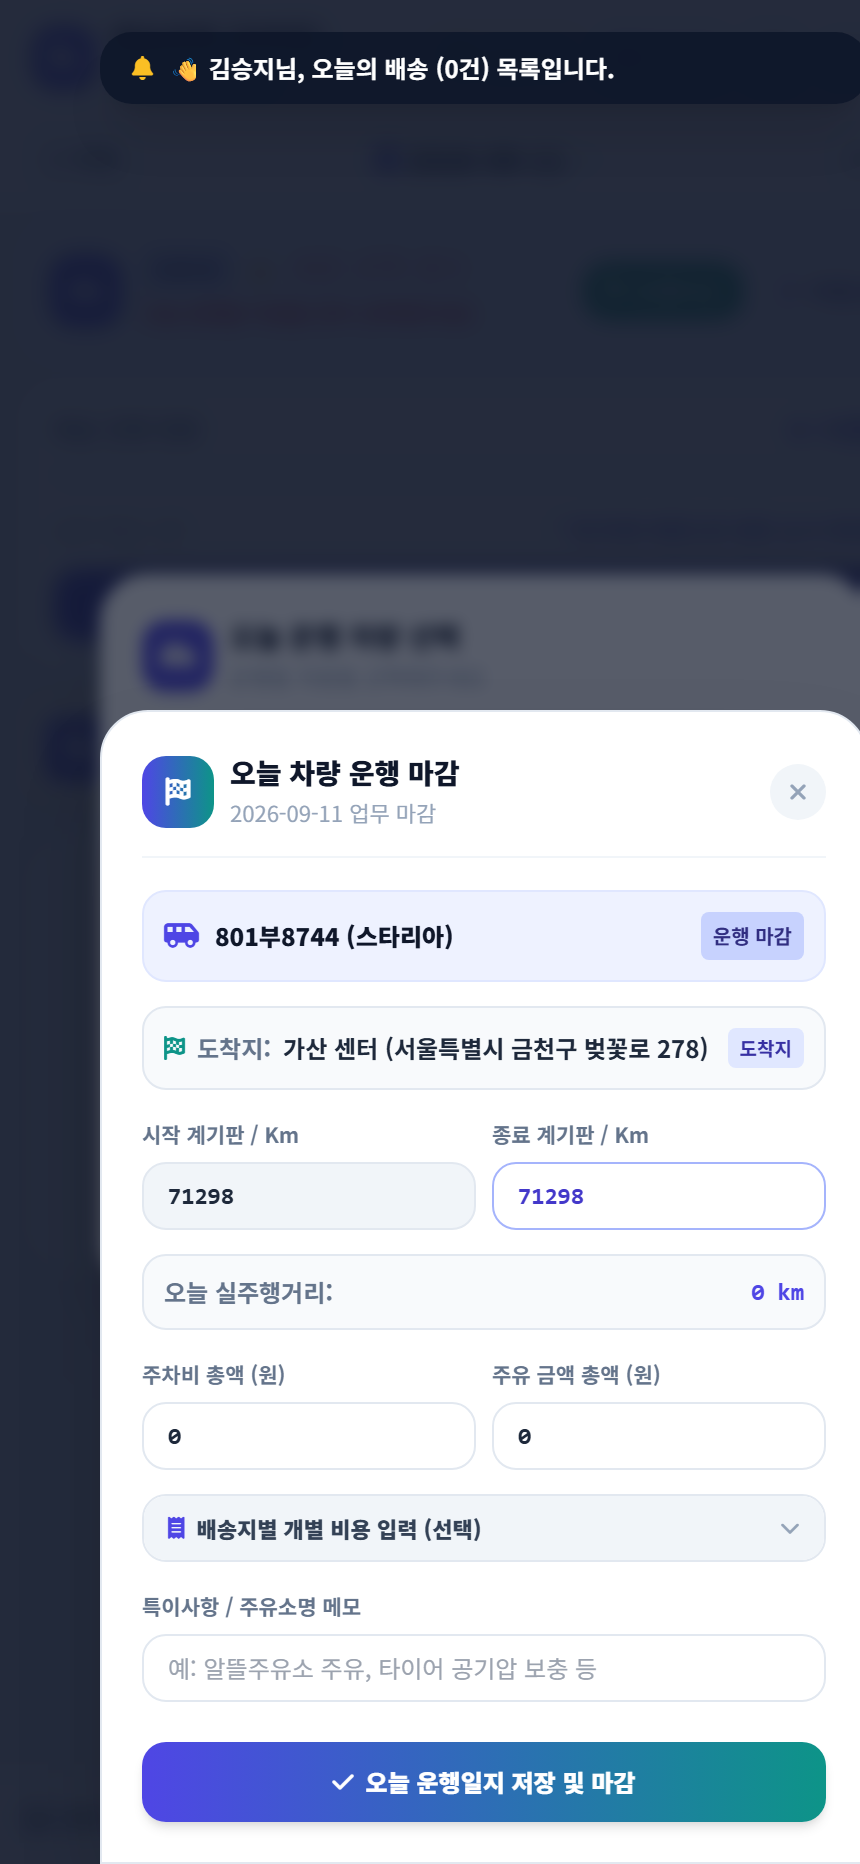
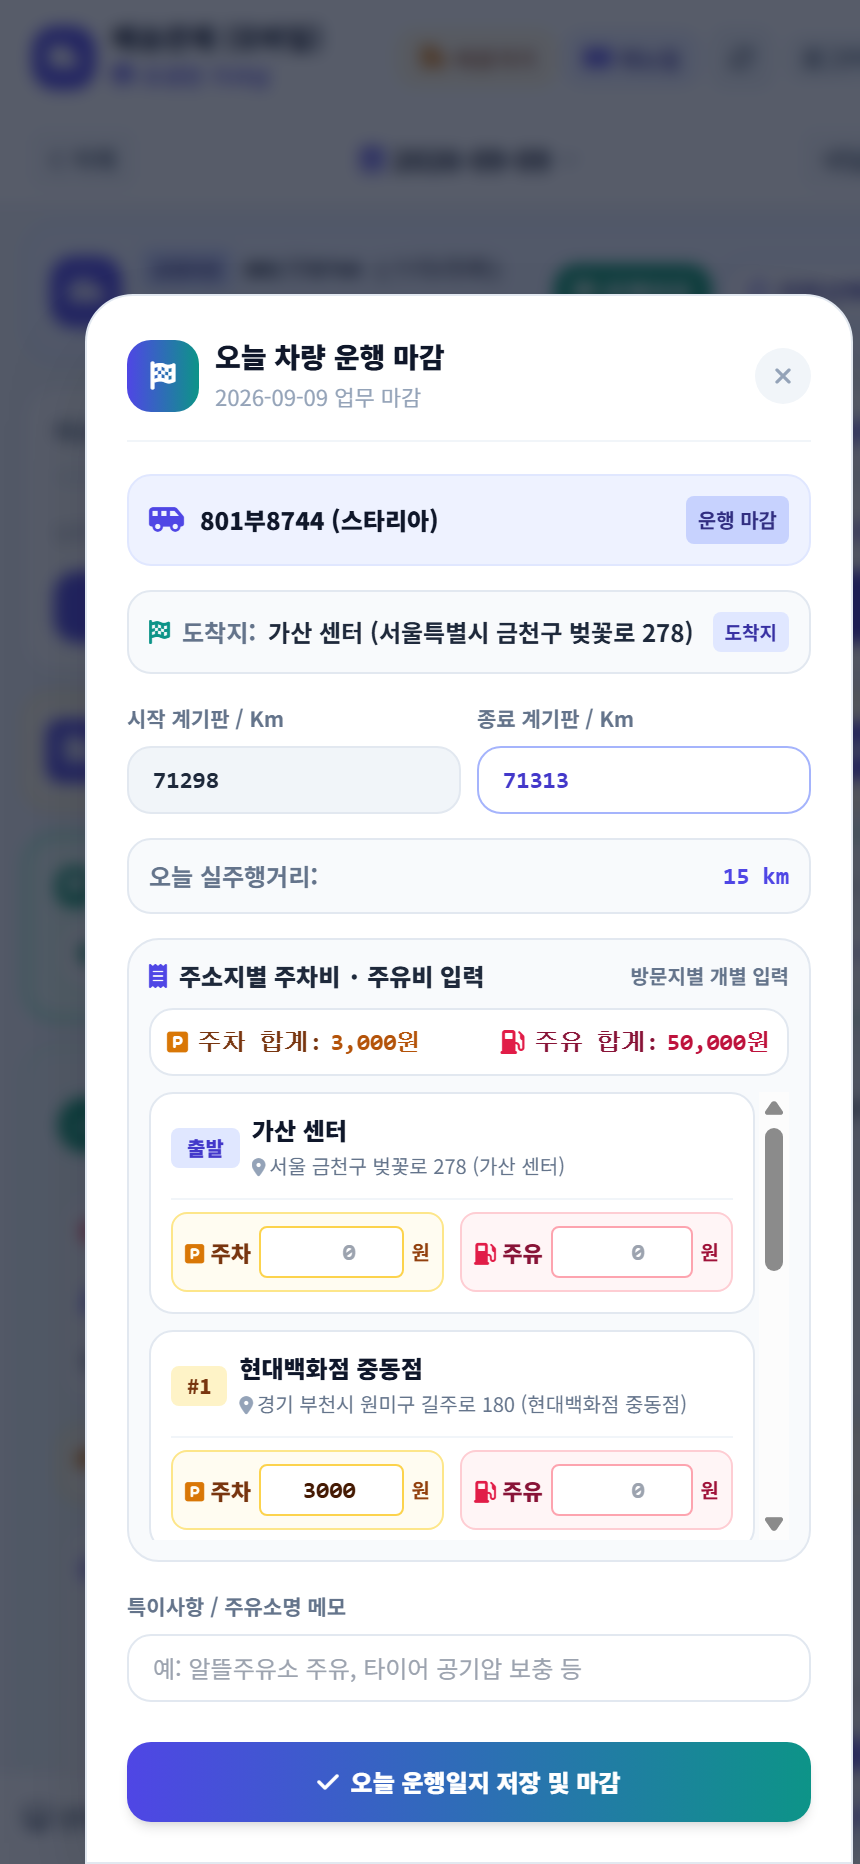
feat: 모바일 운행마감 주소지별 주차비·주유비 개별 입력 개편 및 매뉴얼 업데이트

diff --git a/mobile.html b/mobile.html
@@ -530,27 +530,34 @@
           <span id="closingMileageDiff" class="text-indigo-600 font-mono font-black">0 km</span>
         </div>
 
-        <!-- Costs -->
-        <div class="grid grid-cols-2 gap-2">
-          <div>
-            <label class="block text-[10.5px] font-bold text-slate-500 mb-1">주차비 총액 (원)</label>
-            <input type="number" id="closingParkingFee" value="0" step="500" class="w-full bg-white font-mono font-bold text-slate-800 px-3 py-2 rounded-xl border border-slate-200 text-xs focus:ring-2 focus:ring-amber-500">
-          </div>
-          <div>
-            <label class="block text-[10.5px] font-bold text-slate-500 mb-1">주유 금액 총액 (원)</label>
-            <input type="number" id="closingFuelFee" value="0" step="1000" class="w-full bg-white font-mono font-bold text-slate-800 px-3 py-2 rounded-xl border border-slate-200 text-xs focus:ring-2 focus:ring-rose-500">
-          </div>
-        </div>
-
-        <!-- Per-stop Granular Fees Section -->
-        <div class="border border-slate-200 rounded-xl overflow-hidden bg-slate-50 text-xs">
-          <div class="px-3 py-2 bg-slate-100 flex items-center justify-between cursor-pointer select-none" onclick="toggleMobileClosingStopFees()">
-            <span class="text-[11px] font-black text-slate-700 flex items-center gap-1.5">
-              <i class="fa-solid fa-receipt text-indigo-600"></i> 배송지별 개별 비용 입력 (선택)
+        <!-- 주소지별 주차비 / 주유비 입력 (메인) -->
+        <div class="border border-slate-200 rounded-2xl overflow-hidden bg-slate-50 text-xs space-y-2 p-2.5">
+          <div class="flex items-center justify-between">
+            <span class="text-xs font-black text-slate-800 flex items-center gap-1.5">
+              <i class="fa-solid fa-receipt text-indigo-600"></i>
+              <span>주소지별 주차비 · 주유비 입력</span>
             </span>
-            <i id="mobileClosingStopFeesIcon" class="fa-solid fa-chevron-down text-slate-400 text-[10px] transition-transform"></i>
+            <span class="text-[10px] text-slate-500 font-bold">방문지별 개별 입력</span>
           </div>
-          <div id="mobileClosingStopFeesContainer" class="p-2 space-y-2 hidden max-h-48 overflow-y-auto">
+
+          <!-- 자동 합산 요약 배너 -->
+          <div class="bg-white p-2 rounded-xl border border-slate-200 flex items-center justify-between text-xs font-mono font-bold shadow-2xs">
+            <div class="flex items-center gap-1 text-amber-900">
+              <i class="fa-solid fa-square-parking text-amber-600"></i>
+              <span>주차 합계:</span>
+              <span id="closingTotalParkingBadge" class="text-amber-700 font-black">0원</span>
+            </div>
+            <div class="flex items-center gap-1 text-rose-900">
+              <i class="fa-solid fa-gas-pump text-rose-600"></i>
+              <span>주유 합계:</span>
+              <span id="closingTotalFuelBadge" class="text-rose-700 font-black">0원</span>
+            </div>
+          </div>
+          <input type="hidden" id="closingParkingFee" value="0">
+          <input type="hidden" id="closingFuelFee" value="0">
+
+          <!-- 주소지별 카드 목록 (기본 오픈, 스크롤) -->
+          <div id="mobileClosingStopFeesContainer" class="space-y-2 max-h-56 overflow-y-auto pr-0.5">
             <!-- Dynamically rendered -->
           </div>
         </div>
@@ -1587,13 +1594,24 @@
             var parsed = JSON.parse(res.data[0].memo_full);
             if (parsed.stops && parsed.stops.length > 0) existingStops = parsed.stops;
             if (parsed.parking_fee) document.getElementById('closingParkingFee').value = parsed.parking_fee;
-            if (parsed.fuel_fee) document.getElementById('closingFuelFee').value = parsed.fuel_fee;
-            if (parsed.memo) document.getElementById('closingMemo').value = parsed.memo;
-            if (parsed.end_km) document.getElementById('closingEndKm').value = parsed.end_km;
+            if (parsed.end_km) {
+              var pEnd = Number(parsed.end_km);
+              if (pEnd >= startKm) {
+                document.getElementById('closingEndKm').value = pEnd;
+              } else {
+                document.getElementById('closingEndKm').value = Math.round(startKm + (suggestedDist > 0 ? suggestedDist : 67));
+              }
+            }
           }
         } catch(e) {
           console.warn('Error fetching existing stops for closing modal:', e);
         }
+      }
+
+      var currentStart = Number(document.getElementById('closingStartKm').value || 0);
+      var currentEnd = Number(document.getElementById('closingEndKm').value || 0);
+      if (currentEnd < currentStart) {
+        document.getElementById('closingEndKm').value = Math.round(currentStart + 67);
       }
 
       if (existingStops && existingStops.length > 0) {
@@ -1650,6 +1668,18 @@
         });
       }
 
+      // URL modal=closing 호출 시 예시 화면을 위해 첫 배송지에 주차 3,000원, 복귀지에 주유 50,000원 세팅
+      var urlCheck = new URLSearchParams(window.location.search);
+      if (urlCheck.get('modal') === 'closing') {
+        if (cachedClosingStops.length > 1 && !cachedClosingStops[1].parking_fee) {
+          cachedClosingStops[1].parking_fee = 3000;
+        }
+        var lastStop = cachedClosingStops[cachedClosingStops.length - 1];
+        if (lastStop && !lastStop.fuel_fee) {
+          lastStop.fuel_fee = 50000;
+        }
+      }
+
       renderMobileClosingStopFees();
     }
 
@@ -1672,44 +1702,54 @@
       if (!container) return;
 
       if (!cachedClosingStops || cachedClosingStops.length === 0) {
-        container.innerHTML = '<p class="text-center text-slate-400 py-2">등록된 방문지가 없습니다.</p>';
+        container.innerHTML = '<div class="text-center text-slate-400 py-4 bg-white rounded-xl border border-slate-200"><i class="fa-solid fa-map-pin text-slate-300 mb-1"></i><p class="text-xs">오늘 등록된 방문지가 없습니다.</p></div>';
         return;
       }
 
       container.innerHTML = cachedClosingStops.map(function(s, idx) {
         var badge = (s.type === 'origin')
-          ? '<span class="px-1.5 py-0.5 rounded text-[9px] font-bold bg-indigo-100 text-indigo-700 shrink-0">출발</span>'
+          ? '<span class="px-2 py-0.5 rounded text-[10px] font-black bg-indigo-100 text-indigo-700 shrink-0">출발</span>'
           : (s.type === 'return')
-          ? '<span class="px-1.5 py-0.5 rounded text-[9px] font-bold bg-teal-100 text-teal-800 shrink-0">도착</span>'
-          : `<span class="px-1.5 py-0.5 rounded text-[9px] font-bold bg-amber-100 text-amber-900 shrink-0">#${s.order || idx}</span>`;
+          ? '<span class="px-2 py-0.5 rounded text-[10px] font-black bg-teal-100 text-teal-800 shrink-0">도착</span>'
+          : `<span class="px-2 py-0.5 rounded text-[10px] font-black bg-amber-100 text-amber-900 shrink-0">#${s.order || idx}</span>`;
 
         var curParking = Number(s.parking_fee || 0);
         var curFuel = Number(s.fuel_fee || 0);
 
         return `
-          <div class="p-2 rounded-lg bg-white border border-slate-200 shadow-2xs space-y-1.5">
-            <div class="flex items-center gap-1.5 min-w-0">
-              ${badge}
-              <div class="min-w-0 flex-1">
-                <p class="font-bold text-slate-800 truncate text-[11px]">${s.name || '배송지'}</p>
-                <p class="text-[9.5px] text-slate-400 truncate">${s.addr || ''}</p>
+          <div class="p-2.5 rounded-xl bg-white border border-slate-200 shadow-xs space-y-2">
+            <div class="flex items-start justify-between gap-1.5 min-w-0">
+              <div class="flex items-center gap-1.5 min-w-0 flex-1">
+                ${badge}
+                <div class="min-w-0 flex-1">
+                  <p class="font-black text-slate-900 truncate text-xs">${s.name || '방문지'}</p>
+                  <p class="text-[10px] text-slate-500 truncate mt-0.5"><i class="fa-solid fa-location-dot text-[9px] text-slate-400 mr-0.5"></i>${s.addr || '주소 정보 없음'}</p>
+                </div>
               </div>
             </div>
-            <div class="flex items-center justify-end gap-2 text-[10px] pt-1 border-t border-slate-50">
-              <div class="flex items-center gap-1">
-                <span class="text-amber-700 font-bold">주차:</span>
-                <input type="number" step="500" min="0" value="${curParking}" oninput="updateMobileClosingStopFee(${idx}, 'parking_fee', this.value)" class="w-16 px-1.5 py-0.5 border border-slate-200 rounded text-right font-mono font-bold text-amber-800 focus:ring-1 focus:ring-amber-500">
-                <span class="text-slate-400">원</span>
+
+            <!-- 주소지별 비용 개별 입력 필드 -->
+            <div class="grid grid-cols-2 gap-2 pt-1.5 border-t border-slate-100 text-xs">
+              <div class="flex items-center gap-1 bg-amber-50/70 p-1.5 rounded-lg border border-amber-200">
+                <span class="text-amber-900 font-black shrink-0 text-[11px]"><i class="fa-solid fa-square-parking text-amber-600"></i> 주차</span>
+                <input type="number" step="500" min="0" inputmode="numeric" placeholder="0" value="${curParking || ''}"
+                       oninput="updateMobileClosingStopFee(${idx}, 'parking_fee', this.value)"
+                       class="w-full bg-white px-2 py-1 border border-amber-300 rounded text-right font-mono font-black text-amber-950 text-xs focus:ring-2 focus:ring-amber-500 focus:outline-none">
+                <span class="text-amber-800 text-[10px] shrink-0 font-bold">원</span>
               </div>
-              <div class="flex items-center gap-1">
-                <span class="text-rose-700 font-bold">주유:</span>
-                <input type="number" step="1000" min="0" value="${curFuel}" oninput="updateMobileClosingStopFee(${idx}, 'fuel_fee', this.value)" class="w-16 px-1.5 py-0.5 border border-slate-200 rounded text-right font-mono font-bold text-rose-800 focus:ring-1 focus:ring-rose-500">
-                <span class="text-slate-400">원</span>
+              <div class="flex items-center gap-1 bg-rose-50/70 p-1.5 rounded-lg border border-rose-200">
+                <span class="text-rose-900 font-black shrink-0 text-[11px]"><i class="fa-solid fa-gas-pump text-rose-600"></i> 주유</span>
+                <input type="number" step="1000" min="0" inputmode="numeric" placeholder="0" value="${curFuel || ''}"
+                       oninput="updateMobileClosingStopFee(${idx}, 'fuel_fee', this.value)"
+                       class="w-full bg-white px-2 py-1 border border-rose-300 rounded text-right font-mono font-black text-rose-950 text-xs focus:ring-2 focus:ring-rose-500 focus:outline-none">
+                <span class="text-rose-800 text-[10px] shrink-0 font-bold">원</span>
               </div>
             </div>
           </div>
         `;
       }).join('');
+
+      syncMobileClosingTotalFees();
     }
 
     function updateMobileClosingStopFee(idx, field, val) {
@@ -1725,6 +1765,11 @@
       var fEl = document.getElementById('closingFuelFee');
       if (pEl) pEl.value = totParking;
       if (fEl) fEl.value = totFuel;
+
+      var pBadge = document.getElementById('closingTotalParkingBadge');
+      var fBadge = document.getElementById('closingTotalFuelBadge');
+      if (pBadge) pBadge.innerText = totParking.toLocaleString() + '원';
+      if (fBadge) fBadge.innerText = totFuel.toLocaleString() + '원';
     }
 
     function closeMobileVehicleClosingModal() {
@@ -2091,7 +2136,7 @@
 
       // Check if vehicle has been confirmed for today
       var urlP = new URLSearchParams(window.location.search);
-      if (!urlP.get('vehicle') && !isVehicleConfirmedForToday()) {
+      if (!urlP.get('vehicle') && urlP.get('modal') !== 'closing' && !isVehicleConfirmedForToday()) {
         setTimeout(function() {
           openMobileVehicleSelectModal(true);
         }, 400);

diff --git a/manual.html b/manual.html
@@ -329,22 +329,23 @@
                 <div class="p-3.5 bg-white rounded-xl border border-emerald-200 space-y-2 shadow-xs">
                   <div class="flex items-center gap-1.5 font-black text-emerald-900">
                     <span class="w-5 h-5 rounded-full bg-emerald-600 text-white flex items-center justify-center text-[10px]">2</span>
-                    <span>2단계: 주차비 / 주유비 영수증 금액 입력 (선택)</span>
+                    <span>2단계: 주소지별 주차비 · 주유비 개별 입력 (★ 중요)</span>
                   </div>
-                  <div class="p-2 bg-slate-50 rounded-lg border border-slate-200 font-mono text-[11px] space-y-1">
-                    <div class="flex justify-between text-amber-900">
-                      <span>주차비 총액:</span>
-                      <b>5,000 원</b>
+                  <div class="p-2.5 bg-slate-50 rounded-lg border border-slate-200 font-mono text-[11px] space-y-1.5">
+                    <div class="flex justify-between items-center bg-white px-2 py-1 rounded border border-slate-200">
+                      <span class="text-slate-600 font-sans font-bold">#1 현대백화점 중동점</span>
+                      <span class="text-amber-900 font-bold">주차: <b class="text-amber-700">3,000원</b></span>
                     </div>
-                    <div class="flex justify-between text-rose-900">
-                      <span>주유비 총액:</span>
-                      <b>50,000 원</b>
+                    <div class="flex justify-between items-center bg-white px-2 py-1 rounded border border-slate-200">
+                      <span class="text-slate-600 font-sans font-bold">도착 가산 센터</span>
+                      <span class="text-rose-900 font-bold">주유: <b class="text-rose-700">50,000원</b></span>
                     </div>
-                    <div class="text-[10px] text-slate-500 pt-0.5 truncate">
-                      메모: GS칼텍스 가산주유소 주유
+                    <div class="flex justify-between items-center pt-1 border-t border-slate-200 text-indigo-900 font-black">
+                      <span>자동 합산 요약:</span>
+                      <span>주차 3,000원 / 주유 50,000원</span>
                     </div>
                   </div>
-                  <p class="text-[11px] text-slate-600">오늘 발생한 영수증 지출 금액과 주유소명 메모를 입력합니다. (비용이 없으면 0원 그대로 유지)</p>
+                  <p class="text-[11px] text-slate-600 leading-relaxed">총액을 뭉뚱그려 적지 않고, <b>실제 비용이 발생한 고객사나 경유지별로 주차비·주유비를 각각 입력</b>합니다. 입력 즉시 상단 배너에 자동 합산되며 운행일지 명세표의 해당 주소지 행에 정확히 분배되어 국세청 증빙에 완벽 호환됩니다.</p>
                 </div>
 
                 <!-- 예시 3 -->

diff --git a/MANUAL.md b/MANUAL.md
@@ -87,17 +87,17 @@
 ```
 [1단계: 종료 계기판 입력]
   시작 계기판: 71,298 km
-  종료 계기판: [ 71,365 ] km 입력
-  ➔ 오늘 실주행거리: 67 km 자동 계산!
+  종료 계기판: [ 71,313 ] km 입력
+  ➔ 오늘 실주행거리: 15 km 자동 계산!
 
-[2단계: 주차비 / 주유비 입력 (선택)]
-  주차비 총액: [ 5,000 ] 원
-  주유비 총액: [ 50,000 ] 원
-  메모: GS칼텍스 가산주유소 주유
-  (비용이 발생하지 않은 날은 0원 그대로 유지)
+[2단계: 주소지별 주차비 · 주유비 개별 입력 (★ 중요)]
+  총액으로 뭉뚱그리지 않고, 비용이 발생한 고객사나 주유소 주소지마다 각각 입력:
+  - #1 현대백화점 중동점: 주차비 [ 3,000 ] 원
+  - 도착 가산 센터: 주유비 [ 50,000 ] 원
+  ➔ 상단 배너에 자동 합산 (주차: 3,000원 / 주유: 50,000원) 및 운행일지 배송지별 행에 정확히 분배 기록!
 
 [3단계: [오늘 운행일지 저장 및 마감] 원클릭]
-  ➔ 법인차량 운행일지 시스템으로 오늘 주행거리와 경유지 일괄 전송 완료!
+  ➔ 법인차량 운행일지 시스템으로 당일 경유지별 주행거리 및 개별 주차비/주유비 일괄 전송 완료!
 ```
 * **현지(자택) 퇴근 시**: 센터로 복귀하지 않고 자택으로 바로 퇴근할 때는 마감 팝업의 **[도착지 변경]**을 눌러 자택 주소를 입력하고 마감하시면 해당 위치까지의 거리로 안전하게 마감됩니다.
 
